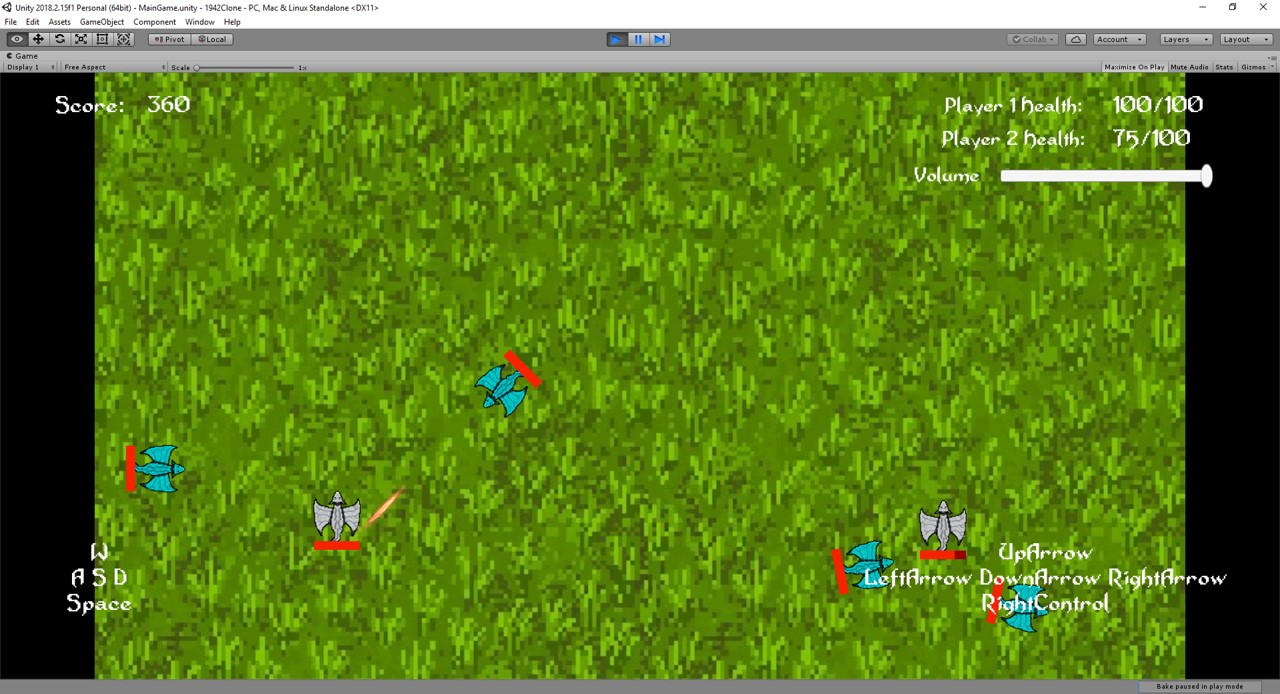
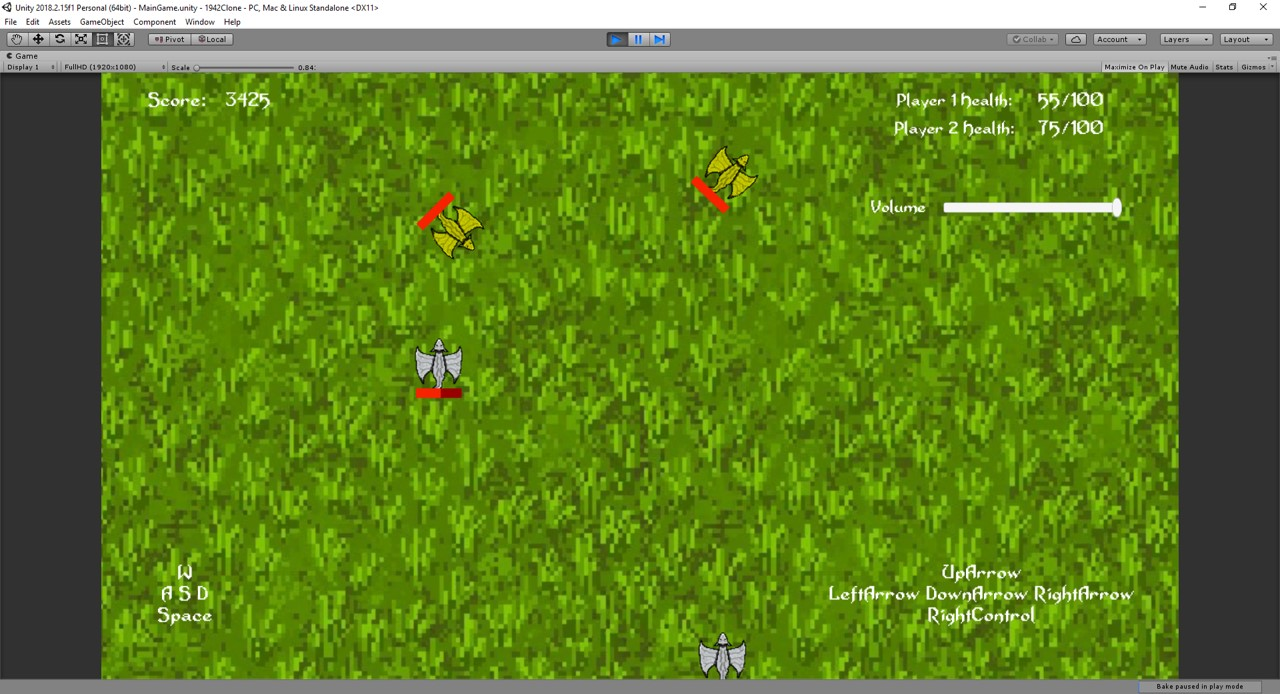
More readme Images

diff --git a/Assets/Scripts/HUD/HUDView.cs b/Assets/Scripts/HUD/HUDView.cs
@@ -8,6 +8,7 @@ public class HUDView : MonoBehaviour {
 	[SerializeField] Text P2HealthText;
 	[SerializeField] Text P1ControlText;
 	[SerializeField] Text P2ControlText;
+	[SerializeField] Text levelText;
 	[SerializeField] GameObject gameEndView;
 	[SerializeField] GameObject gameWonObj;
 	[SerializeField] GameObject gameLostObj;
@@ -42,16 +43,19 @@ public class HUDView : MonoBehaviour {
 		DisableAll();
 		gameEndView.SetActive(true);
 		if(gameWon){
+			levelText.text = "";
 			gameWonObj.SetActive(true);
 			gameLostObj.SetActive(false);
 		}
 		else{
+			levelText.text = "";
 			gameWonObj.SetActive(false);
 			gameLostObj.SetActive(true);
 		}
 	}
 
 	public void OnLevelStart(int level){
+		levelText.text = "Level: "+level;
 		levelComplete.SetActive(false);
 		levelStart.SetActive(true);
 		Invoke("DisableLevelStartObj",disableLevelStartObjAfterSec);
@@ -61,6 +65,7 @@ public class HUDView : MonoBehaviour {
 		levelStart.SetActive(false);
 	}
 	public void OnLevelComplete(int level){
+		levelText.text = "Completed: "+level;
 		levelStart.SetActive(false);
 		levelComplete.SetActive(true);
 	}
